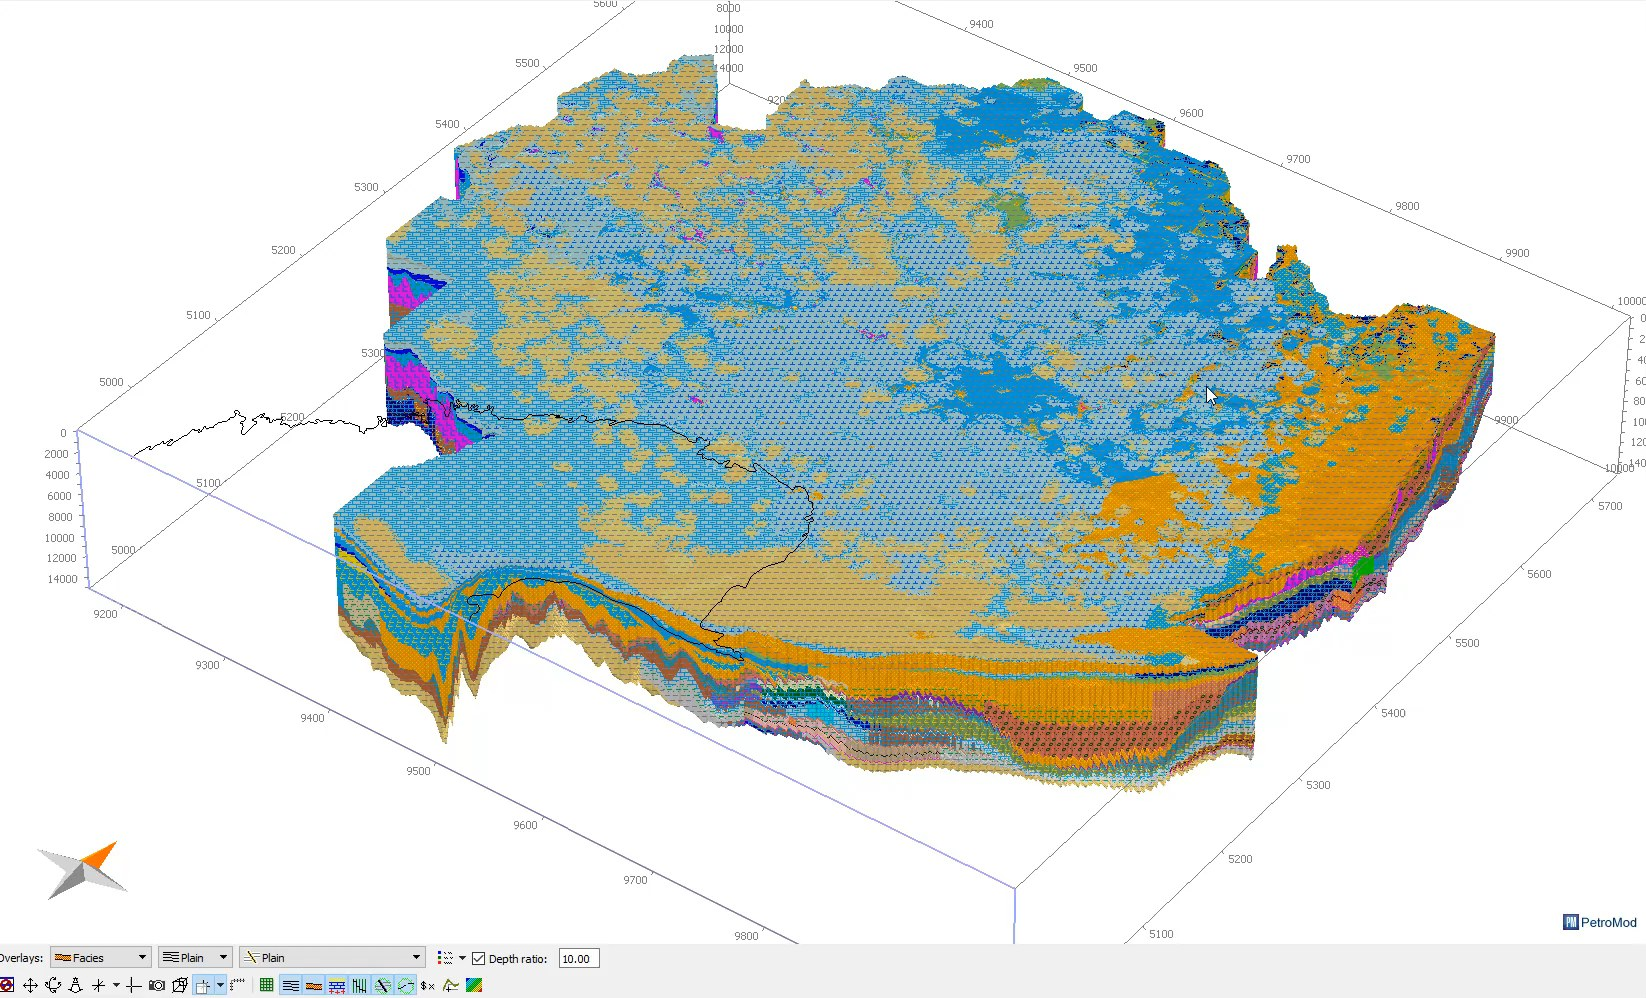
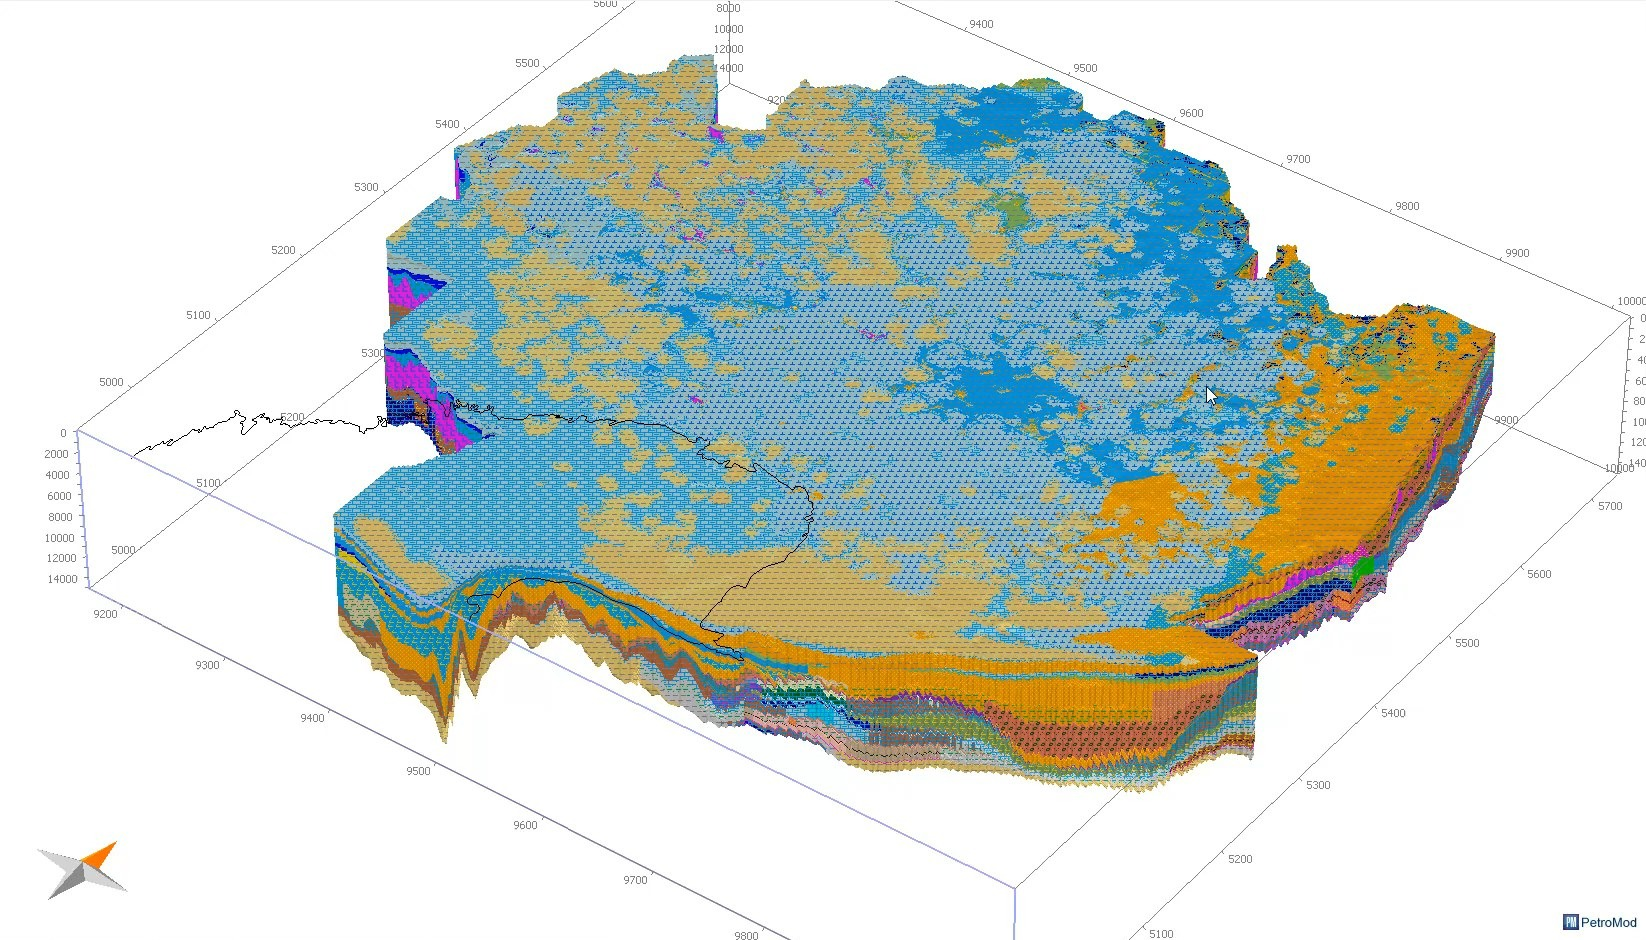
Бассейны: слайд «Прикаспий в цифре» — поверхность девона и очаг генерации
Геологи (pptx 17_09_2, слайды 5–6) хотят после карты бассейнов показать
Прикаспий отдельно: структурную поверхность девона (D3) и объёмную модель с
очагом генерации УВ. Вставлен слайд между картой слоями и роликами: две их
картинки как есть, по кликам стопкой (верхняя — через :has, общий механизм
кадров включает все), справа пункты с пояснением. У скрина PetroMod срезана
панель инструментов снизу — интерфейс, не модель; подпись источника ушла
наверх, внизу справа логотип PetroMod.

Проверено: node --check обоих скриптов страницы; снимок ?с=2 chrome
headless; в браузере кадры 1 (девон) → 2 (очаг) по стрелке.

diff --git a/бассейны.html b/бассейны.html
@@ -193,6 +193,19 @@ h2.заголовок{font-size:36px;font-weight:700;line-height:1.15;margin-top
 .живо .счёт{position:absolute;right:22px;top:18px;padding:8px 14px;border-radius:12px;background:rgba(5,8,16,.78);border:1px solid var(--грань);font-size:12px;letter-spacing:.14em;text-transform:uppercase;color:var(--кмг)}
 .живо .источник{position:absolute;right:22px;bottom:24px;font-size:12px;color:var(--приглуш)}
 .живая_сетка{display:grid;grid-template-columns:1fr 380px;gap:30px;height:100%;min-height:0}
+/* ===== Прикаспий: две картинки геологов стопкой по кликам (структурная поверхность девона, очаг генерации) =====
+   Общий механизм кадров включает все элементы с data-к ≤ текущего, а показать надо только верхний —
+   включённые, за которыми идёт включённый сосед, гасятся через :has (Chrome 105+). Картинки на белом —
+   это скрины Petrel/PetroMod как есть, фон бокса белый, чтобы не было тёмных полей по краям. */
+.живо.стопка_карт{background:#fff}
+.живо.стопка_карт img{position:absolute;inset:0;width:100%;height:100%;object-fit:contain;opacity:0;transition:opacity .8s ease}
+.живо.стопка_карт img.включён{opacity:1}
+.живо.стопка_карт img.включён:has(~ img.включён){opacity:0}
+.живо.стопка_карт .титр{opacity:0;transition:opacity .8s ease}
+.живо.стопка_карт .титр.включён{opacity:1}
+.живо.стопка_карт .титр.включён:has(~ .титр.включён){opacity:0}
+.живо.стопка_карт .источник{top:18px;bottom:auto;color:#4B5A70}   /* внизу справа у PetroMod свой логотип */
+.живо.стопка_карт .вуаль{background:linear-gradient(180deg,rgba(5,8,16,0) 78%,rgba(5,8,16,.55) 100%)}
 .портфель{position:relative;border-radius:22px;overflow:hidden;border:1px solid var(--грань);background:var(--фон0);min-height:0;display:flex;align-items:center;justify-content:center}
 .портфель img{max-width:100%;max-height:100%;object-fit:contain}
 </style>
@@ -255,6 +268,28 @@ h2.заголовок{font-size:36px;font-weight:700;line-height:1.15;margin-top
           <div><i style="background:rgba(175,192,216,.8)"></i>малоперспективные</div>
         </div>
       </div>
+    </div>
+  </div>
+</section>
+
+<section class="слайд" id="с1б" aria-label="Прикаспийский бассейн в цифре">
+  <div class="бровь">Геологоразведка · цифровая бассейновая модель · Прикаспий</div>
+  <h2 class="заголовок дисплей">Прикаспий в цифре: от поверхности девона до очага генерации</h2>
+  <div class="полотно">
+    <div class="живая_сетка">
+      <div class="живо стопка_карт">
+        <img src="медиа/геология/кейсы/прикаспий_девон.jpg" data-к="1" alt="Структурная поверхность девона (D3), Прикаспийский бассейн">
+        <img src="медиа/геология/кейсы/очаг_генерации.jpg" data-к="2" alt="3D-модель бассейна в PetroMod: фации и очаг генерации УВ">
+        <div class="вуаль"></div>
+        <div class="титр" data-к="1"><span>Структурная поверхность девона (D3)</span><small>глубины от −4 000 до −14 000 м · Petrel</small></div>
+        <div class="титр" data-к="2"><span>Очаг генерации УВ</span><small>3D-модель бассейна, фации по разрезу · PetroMod</small></div>
+        <div class="источник">Департамент геологоразведки КМГ</div>
+      </div>
+      <ul class="бас_список">
+      <li data-к="1" class="пять"><b>1</b><span><em>Структурная поверхность девона</em> — карта глубин кровли девона по всему бассейну; поверх неё контуры участков и месторождения</span></li>
+      <li data-к="2" class="мнб"><b>2</b><span><em>Очаг генерации УВ</em> — объёмная модель бассейна: где нефть образовалась, куда мигрировала и где могла скопиться</span></li>
+      <li data-к="2" class=""><b>34<i>%</i></b><span>территории страны покрыто пятью цифровыми бассейновыми моделями</span></li>
+      </ul>
     </div>
   </div>
 </section>

diff --git a/инструменты/собрать_бассейны.py b/инструменты/собрать_бассейны.py
@@ -63,6 +63,19 @@ css = '''
 .живо .счёт{position:absolute;right:22px;top:18px;padding:8px 14px;border-radius:12px;background:rgba(5,8,16,.78);border:1px solid var(--грань);font-size:12px;letter-spacing:.14em;text-transform:uppercase;color:var(--кмг)}
 .живо .источник{position:absolute;right:22px;bottom:24px;font-size:12px;color:var(--приглуш)}
 .живая_сетка{display:grid;grid-template-columns:1fr 380px;gap:30px;height:100%;min-height:0}
+/* ===== Прикаспий: две картинки геологов стопкой по кликам (структурная поверхность девона, очаг генерации) =====
+   Общий механизм кадров включает все элементы с data-к ≤ текущего, а показать надо только верхний —
+   включённые, за которыми идёт включённый сосед, гасятся через :has (Chrome 105+). Картинки на белом —
+   это скрины Petrel/PetroMod как есть, фон бокса белый, чтобы не было тёмных полей по краям. */
+.живо.стопка_карт{background:#fff}
+.живо.стопка_карт img{position:absolute;inset:0;width:100%;height:100%;object-fit:contain;opacity:0;transition:opacity .8s ease}
+.живо.стопка_карт img.включён{opacity:1}
+.живо.стопка_карт img.включён:has(~ img.включён){opacity:0}
+.живо.стопка_карт .титр{opacity:0;transition:opacity .8s ease}
+.живо.стопка_карт .титр.включён{opacity:1}
+.живо.стопка_карт .титр.включён:has(~ .титр.включён){opacity:0}
+.живо.стопка_карт .источник{top:18px;bottom:auto;color:#4B5A70}   /* внизу справа у PetroMod свой логотип */
+.живо.стопка_карт .вуаль{background:linear-gradient(180deg,rgba(5,8,16,0) 78%,rgba(5,8,16,.55) 100%)}
 .портфель{position:relative;border-radius:22px;overflow:hidden;border:1px solid var(--грань);background:var(--фон0);min-height:0;display:flex;align-items:center;justify-content:center}
 .портфель img{max-width:100%;max-height:100%;object-fit:contain}
 '''
@@ -112,6 +125,28 @@ def свг_группа(ключ, кадр):
           <div><i style="background:rgba(175,192,216,.8)"></i>малоперспективные</div>
         </div>
       </div>
+    </div>
+  </div>
+</section>
+'''
+
+# --- слайд 1б: Прикаспий в цифре — девон и очаг генерации (слайды 5–6 их pptx 17_09_2) ---
+слайд1б = '''
+<section class="слайд" id="с1б" aria-label="Прикаспийский бассейн в цифре">
+  <div class="бровь">Геологоразведка · цифровая бассейновая модель · Прикаспий</div>
+  <h2 class="заголовок дисплей">Прикаспий в цифре: от поверхности девона до очага генерации</h2>
+  <div class="полотно">
+    <div class="живая_сетка">
+      <div class="живо стопка_карт">
+        <img src="медиа/геология/кейсы/прикаспий_девон.jpg" data-к="1" alt="Структурная поверхность девона (D3), Прикаспийский бассейн">
+        <img src="медиа/геология/кейсы/очаг_генерации.jpg" data-к="2" alt="3D-модель бассейна в PetroMod: фации и очаг генерации УВ">
+        <div class="вуаль"></div>
+        <div class="титр" data-к="1"><span>Структурная поверхность девона (D3)</span><small>глубины от −4 000 до −14 000 м · Petrel</small></div>
+        <div class="титр" data-к="2"><span>Очаг генерации УВ</span><small>3D-модель бассейна, фации по разрезу · PetroMod</small></div>
+        <div class="источник">Департамент геологоразведки КМГ</div>
+      </div>
+      <ul class="бас_список">
+''' + li('1', '', '<em>Структурная поверхность девона</em> — карта глубин кровли девона по всему бассейну; поверх неё контуры участков и месторождения', 1, 'пять') + li('2', '', '<em>Очаг генерации УВ</em> — объёмная модель бассейна: где нефть образовалась, куда мигрировала и где могла скопиться', 2, 'мнб') + li('34', '%', 'территории страны покрыто пятью цифровыми бассейновыми моделями', 2) + '''      </ul>
     </div>
   </div>
 </section>
@@ -227,6 +262,6 @@ a = база.index('<script>\n(function(){\n  "use strict";'); b = база.inde
 })();
 </script>
 '''
-страница = голова + '\n</head>\n<body>\n<div id="обёртка">\n<div id="кадр">\n' + слайд1 + слайд2 + слайд3 + слайд4 + низ + листание + видео + '\n</body>\n</html>\n'
+страница = голова + '\n</head>\n<body>\n<div id="обёртка">\n<div id="кадр">\n' + слайд1 + слайд1б + слайд2 + слайд3 + слайд4 + низ + листание + видео + '\n</body>\n</html>\n'
 io.open(R + 'бассейны.html', 'w', encoding='utf-8').write(страница)
 print('ok', len(страница))
